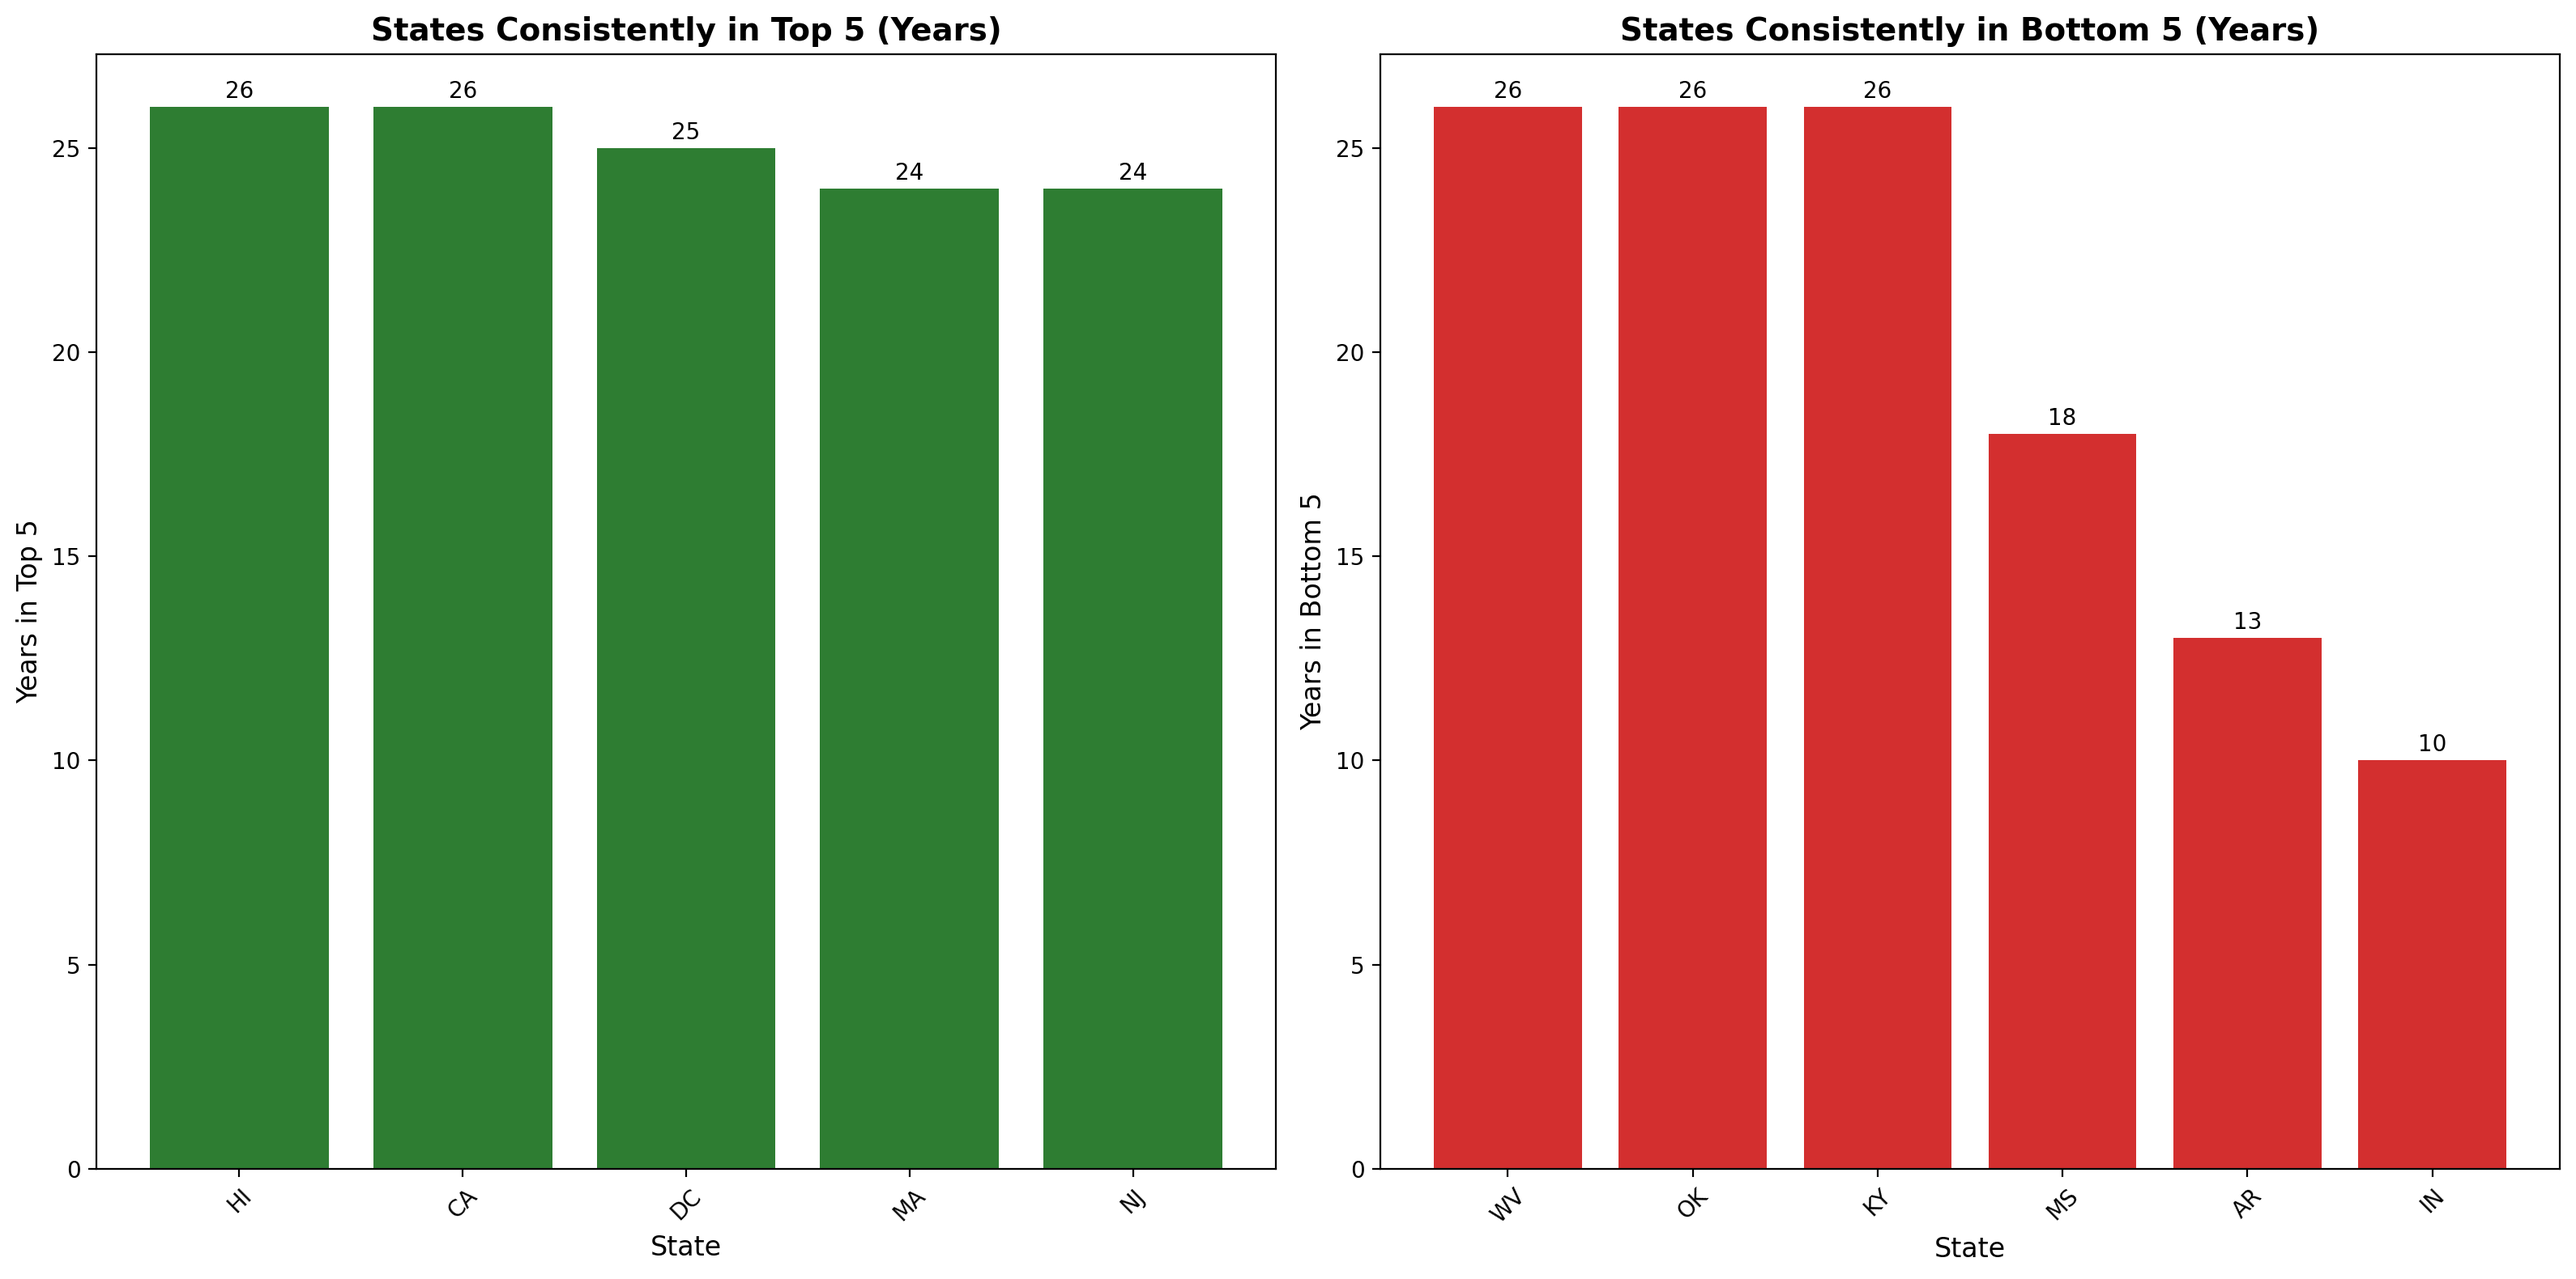
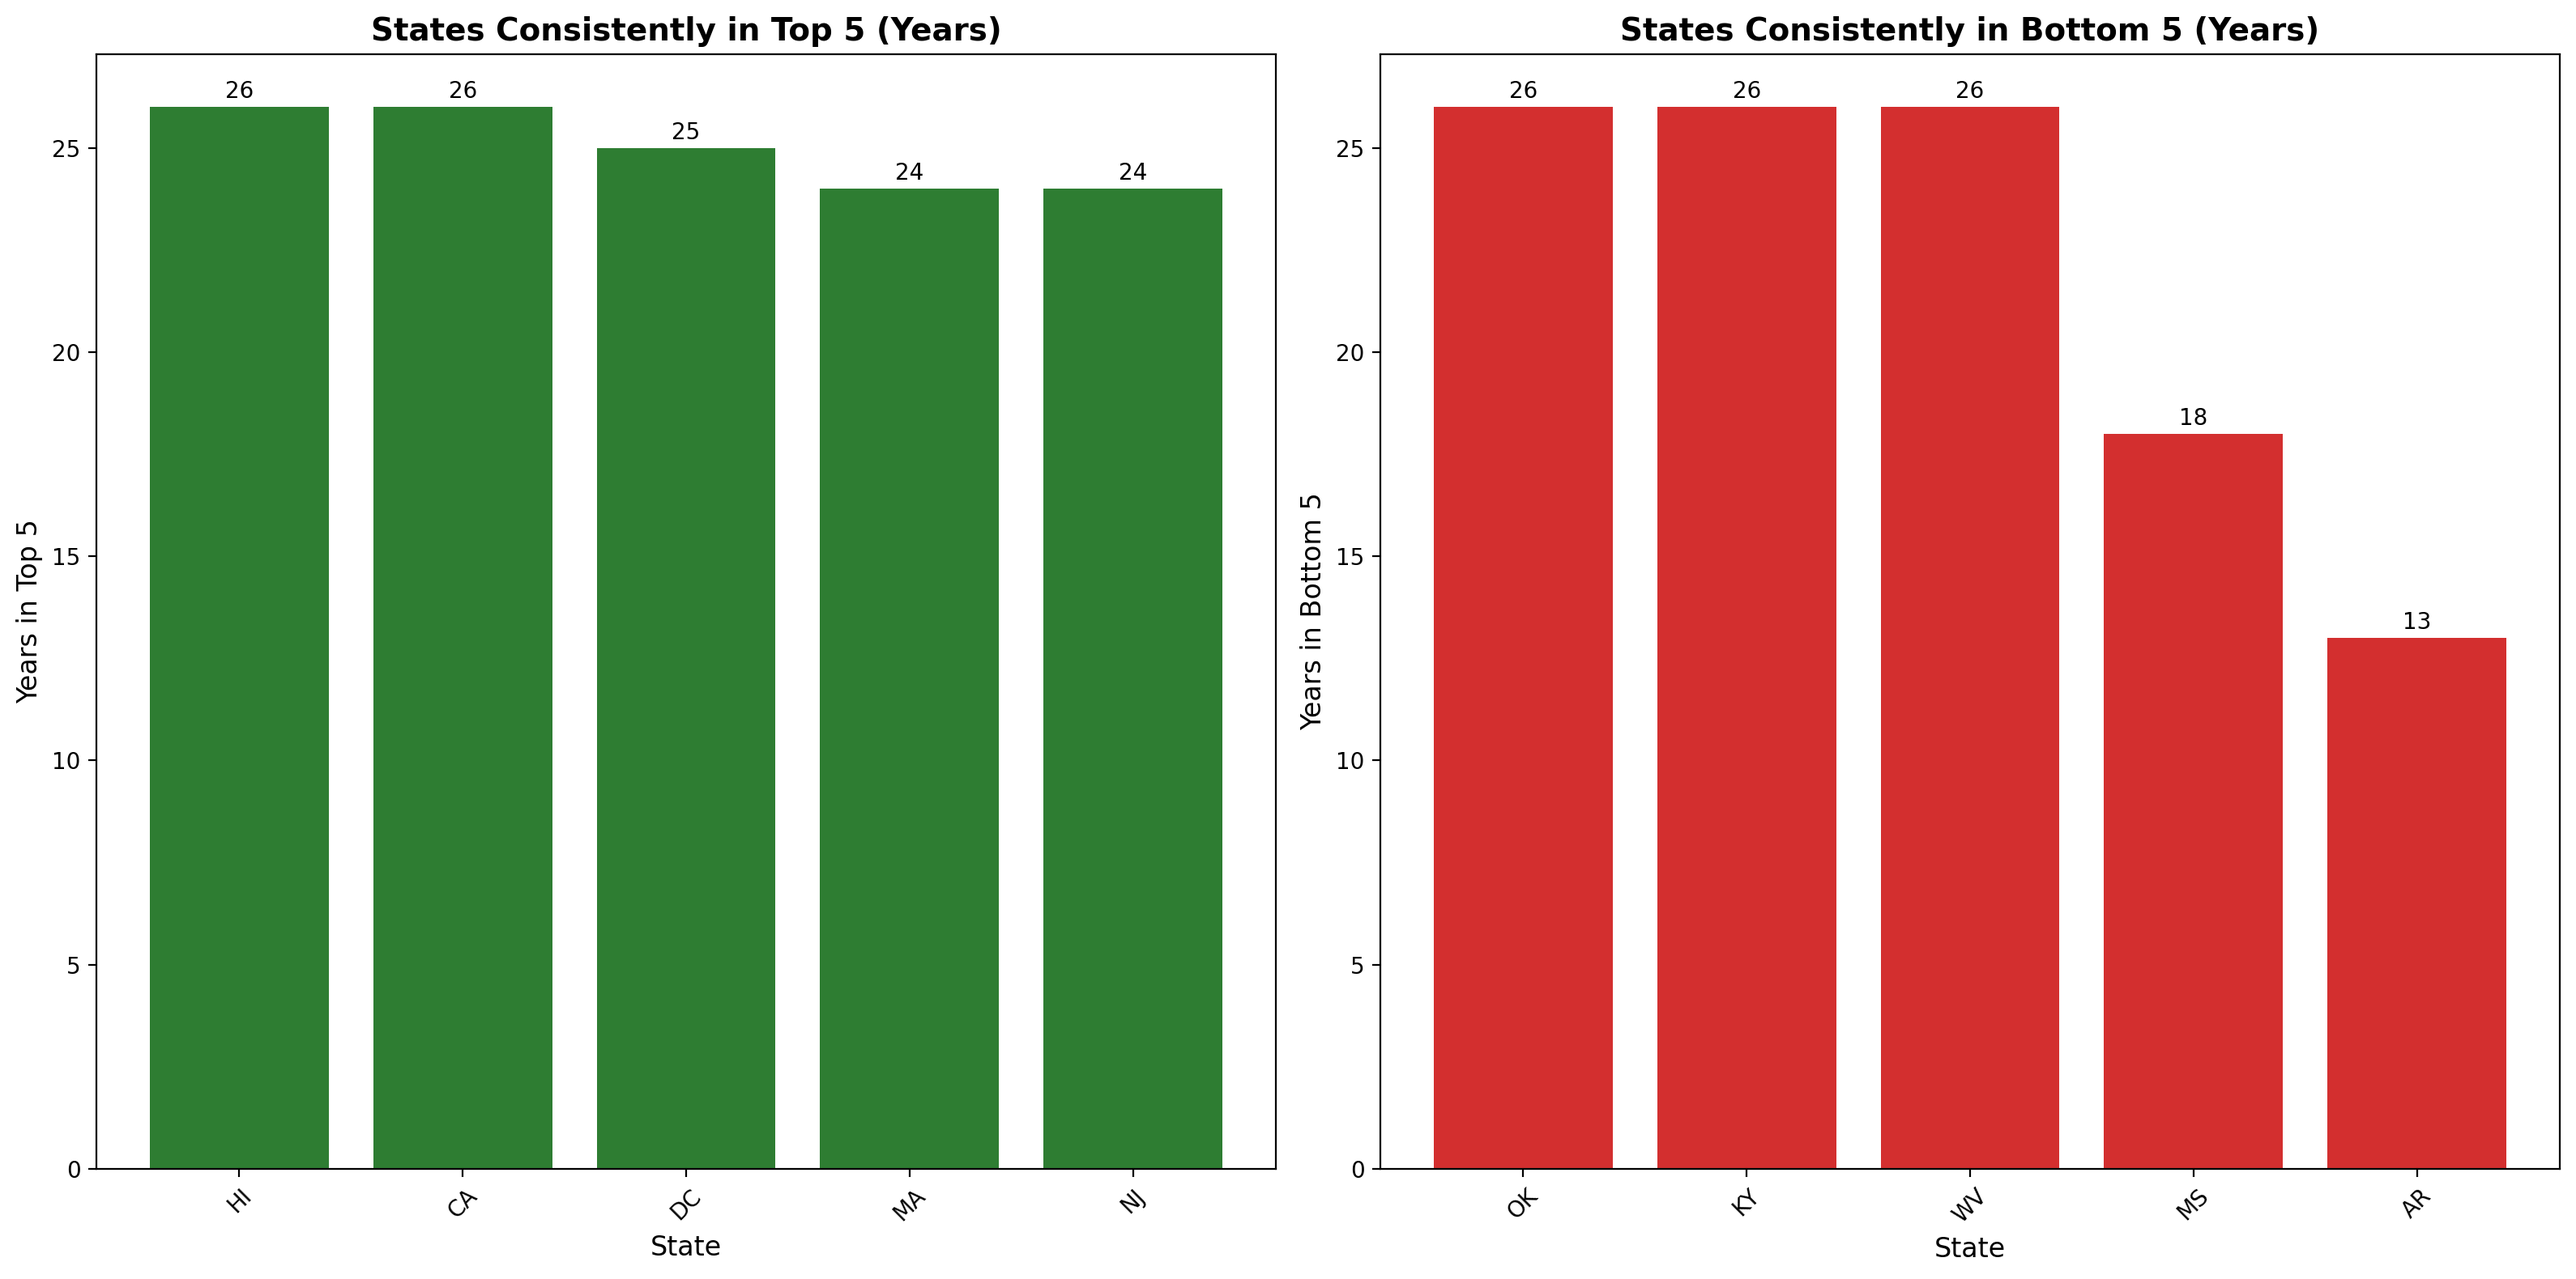
Fix Q3: precise question and limit to exactly 5 states per category

diff --git a/housing-portfolio/scripts/run_analysis.py b/housing-portfolio/scripts/run_analysis.py
@@ -163,8 +163,9 @@ def run_queries(con: duckdb.DuckDBPyConnection):
         plt.close()
         print(f"[ok] wrote {out}")
 
-    # Q3: Which states consistently rank in the top 5 and bottom 5 
-    # in average housing values across the years?
+    # Q3: Which are the top 5 most consistent states that ranked in the top 5 
+    # and bottom 5 most consistent states that ranked in the bottom 5 
+    # in average housing values across the years (minimum 10 years)?
     q3 = """
     WITH state_values AS (
         SELECT
@@ -205,22 +206,25 @@ def run_queries(con: duckdb.DuckDBPyConnection):
         GROUP BY statename
         HAVING COUNT(*) >= 10
     )
-    SELECT 
+    (SELECT 
         'Top 5 Consistent' AS category,
         statename,
         years_in_top5,
         avg_index_across_years,
         avg_rank
     FROM top5_consistency
+    ORDER BY years_in_top5 DESC, avg_rank ASC
+    LIMIT 5)
     UNION ALL
-    SELECT 
+    (SELECT 
         'Bottom 5 Consistent' AS category,
         statename,
         years_in_bottom5,
         avg_index_across_years,
         avg_rank
     FROM bottom5_consistency
-    ORDER BY category, years_in_top5 DESC, years_in_bottom5 DESC;
+    ORDER BY years_in_bottom5 DESC, avg_rank ASC
+    LIMIT 5);
     """
     df3 = con.execute(q3).df()
     df_to_csv(df3, "consistent_rankings_analysis")
